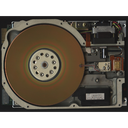
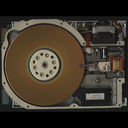
Add Linux (and macOS) build support
pom.xml:
- Add javafx.platform property (default: win) with OS-activated profiles
  that override to linux or mac at build time — no manual flag needed
- Replace all <classifier>win</classifier> with <classifier>${javafx.platform}</classifier>

Scripts:
- build.sh: Linux/macOS equivalent of build-exe.bat; auto-detects JAVA_HOME
  and mvn, optional build-config.sh override (git-ignored)
- ReSaver.sh: Linux/macOS dev launcher equivalent of ReSaver.bat
- build-config.sh.template: config template with common JDK path examples
  (Temurin, SDKMAN, Homebrew)
- .gitignore: add build-config.sh

Icon:
- Disk.png: 128x128 PNG extracted from Disk.ico for Linux/macOS jpackage

Docs:
- BUILD.md: full per-platform sections (Windows, Linux, macOS) covering
  install, Maven, optional config, build commands, and Linux-specific notes
  (Proton save paths, MO2, HiDPI scaling)

Changed region(s): [[0.0, 0.8438, 1.0, 1.0], [0.0, 0.0, 1.0, 0.1562]]

diff --git a/BUILD.md b/BUILD.md
@@ -2,14 +2,14 @@
 
 ## Requirements
 
-| Tool | Minimum version | Notes |
-|------|----------------|-------|
-| JDK  | **21** | Any distribution — see below |
-| Apache Maven | 3.9+ | Must be on `PATH` or configured in `build-config.bat` |
+| Tool | Minimum | Recommended |
+|------|---------|-------------|
+| JDK  | 21      | Latest LTS  |
+| Apache Maven | 3.9+ | 3.9.x |
 
-### Supported JDK distributions (21+)
+### Supported JDK distributions
 
-All mainstream JDK distributions at version 21 or later are supported:
+All mainstream JDK distributions at version 21 or later are supported on all platforms:
 
 | Distribution | Download |
 |---|---|
@@ -20,91 +20,199 @@ All mainstream JDK distributions at version 21 or later are supported:
 | Oracle JDK | https://oracle.com/java/technologies/downloads |
 | GraalVM | https://graalvm.org |
 
-> **End users do not need Java.** The built `.exe` bundles its own JRE via
-> jpackage, so only developers building from source need a JDK.
+> **End users do not need Java installed.** The packaged app bundles its own
+> JRE via jpackage. Only developers building from source need a JDK.
 
-Newer JDK versions (22, 23, 24, 25, …) also work — the bytecode targets Java 21
-so any later JVM runs it.
+Newer versions (22, 23, 24, 25 …) also work — the bytecode targets Java 21 so
+any later JVM runs it without modification.
 
-## Quick setup
+---
 
-### 1. Java
+## Windows
 
-Install a JDK 21+ from any of the distributions above. Set `JAVA_HOME` to the
-installation directory (most JDK installers do this automatically).
+### 1. Install JDK 21+
 
-Verify: `java -version` should print `21` or higher.
+Download any distribution from the table above. Most installers will set
+`JAVA_HOME` automatically. Verify:
 
-### 2. Maven
+```bat
+java -version
+```
 
-Install [Apache Maven](https://maven.apache.org/download.cgi) and add its `bin\`
-directory to your `PATH`.
+### 2. Install Maven
 
-Verify: `mvn -version` should print `3.9` or higher.
+Download from https://maven.apache.org/download.cgi, extract to a folder, and
+add its `bin\` directory to your `PATH`. Verify:
 
-### 3. build-config.bat (optional)
+```bat
+mvn -version
+```
 
-If `JAVA_HOME` and `mvn` are already available in your environment you can skip
-this step.
+### 3. Configure paths (optional)
 
-If you need to point to a specific JDK or Maven installation:
+If `JAVA_HOME` and `mvn` are already on your `PATH` you can skip this step.
+
+Otherwise, copy the template and fill in your paths:
 
 ```bat
 copy build-config.bat.template build-config.bat
 ```
 
-Open `build-config.bat` in a text editor and uncomment / fill in the two paths.
-This file is listed in `.gitignore` so your local paths are never committed.
+Open `build-config.bat` in a text editor and uncomment the lines for
+`JPACKAGE_JDK` and/or `MVN`. This file is git-ignored so your local paths
+are never committed.
 
-## Building
+### 4. Build
 
-### Full build — produces `dist\ReSaver\ReSaver.exe`
+**Full build** — produces `dist\ReSaver\ReSaver.exe`:
 
 ```bat
 build-exe.bat
 ```
 
-The script will:
-1. Compile and package the JAR with Maven
-2. Bundle the JDK and create a self-contained `app-image` with jpackage
-
-### Development run — launch directly from `target\`
+**Development run** — launch directly from `target\` without packaging:
 
 ```bat
 mvn package -DskipTests
-ReSaver.bat
+ReSaver.bat [save-file]
 ```
 
-`ReSaver.bat` accepts the same arguments as the packaged exe:
+---
 
-```bat
-ReSaver.bat path\to\save.ess
-ReSaver.bat --help
-ReSaver.bat --darktheme
+## Linux
+
+### 1. Install JDK 21+
+
+**Temurin (recommended)** — via package manager:
+
+```bash
+# Ubuntu / Debian
+sudo apt install temurin-21-jdk
+
+# Fedora / RHEL
+sudo dnf install temurin-21-jdk
+
+# Or via SDKMAN (works on any distro):
+curl -s "https://get.sdkman.io" | bash
+sdk install java 21.0.7-tem
 ```
 
-## Notes
+Set `JAVA_HOME` if your package manager doesn't do it automatically:
+
+```bash
+export JAVA_HOME=/usr/lib/jvm/temurin-21-amd64   # adjust path as needed
+export PATH="$JAVA_HOME/bin:$PATH"
+```
+
+Verify: `java -version`
+
+### 2. Install Maven
+
+```bash
+# Ubuntu / Debian
+sudo apt install maven
+
+# Fedora / RHEL
+sudo dnf install maven
+
+# Or via SDKMAN:
+sdk install maven
+```
+
+Verify: `mvn -version`
+
+### 3. Configure paths (optional)
+
+If `JAVA_HOME` and `mvn` are already on your `PATH` you can skip this step.
+
+```bash
+cp build-config.sh.template build-config.sh
+```
+
+Open `build-config.sh` and uncomment/set `JPACKAGE_JDK` and/or `MVN`.
+`build-config.sh` is git-ignored.
+
+### 4. Make scripts executable (first time only)
+
+```bash
+chmod +x build.sh ReSaver.sh
+```
+
+### 5. Build
+
+**Full build** — produces `dist/ReSaver/bin/ReSaver`:
+
+```bash
+./build.sh
+```
+
+**Development run** — launch directly from `target/` without packaging:
+
+```bash
+mvn package -DskipTests
+./ReSaver.sh [save-file]
+```
+
+### Notes for Linux users
+
+**Save file location** — Skyrim on Linux runs via Steam + Proton. Saves are
+stored inside the Proton prefix, typically at a path like:
+
+```
+~/.steam/steam/steamapps/compatdata/489830/pfx/drive_c/users/steamuser/
+    My Documents/My Games/Skyrim Special Edition/Saves/
+```
+
+The app won't auto-navigate there on first launch; use the file chooser to
+open a save once and ReSaver will remember the directory.
+
+**Mod Organizer 2** — MO2 on Linux is available natively via Flatpak
+(`com.modorganizer.ModOrganizer2`) or through Wine. The MO2 integration in
+ReSaver requires pointing it at the MO2 ini file manually via
+Options → Settings → Mod Organizer 2.
+
+**Display scaling** — ReSaver uses FlatLaf with HiDPI support. If text appears
+small on a high-DPI display, set the font scale under Options → Settings →
+General → Font scaling.
+
+---
+
+## macOS
+
+The process is the same as Linux. Use `build.sh` and `ReSaver.sh`.
+
+For jpackage on macOS, `--type app-image` produces a `dist/ReSaver/` directory.
+To produce a `.dmg` or `.pkg` change the `--type` flag in `build.sh`.
+
+Install JDK via Homebrew: `brew install --cask temurin@21`
+
+---
+
+## Notes (all platforms)
 
 ### Bundle size
 
-`build-exe.bat` uses `--runtime-image` (bundles the full JDK) rather than a
-jlink-based custom runtime image. This is because many JDK distributions no
-longer ship `jmods/`, which jlink requires. The resulting bundle is ~300–350 MB.
-If your JDK includes `jmods/` you can switch to jlink for a much smaller image.
+The build scripts use `--runtime-image` (bundles the full JDK) because many
+JDK distributions no longer ship `jmods/`, which jlink requires. The resulting
+bundle is ~300–350 MB. If your JDK has a `jmods/` directory you can switch to
+`--jlink-options` for a much smaller image.
 
-### Windows only
+### JavaFX platform selection
 
-The `.bat` build scripts and jpackage `--type app-image` target Windows.
-Building on Linux or macOS would require changing the jpackage target type
-(`--type deb`, `--type pkg`, etc.) and switching the JavaFX classifier in
-`pom.xml` from `win` to `linux` or `mac`.
+`pom.xml` uses OS-activated Maven profiles to select the correct JavaFX native
+classifier automatically (`win`, `linux`, or `mac`). No manual flag is needed —
+Maven detects the build platform. You can override manually if needed:
+
+```bash
+mvn package -Djavafx.platform=linux
+```
 
 ### Debug log
 
 When "Write debug log to file" is enabled (Options → Settings → General),
 log files are written to:
 
-- **Packaged exe**: same directory as `ReSaver.exe`
+- **Packaged build**: same directory as the launcher executable
 - **Dev launcher**: project root directory
 
 Logs rotate: up to 5 files × 10 MB each (`debug_0.log` … `debug_4.log`).